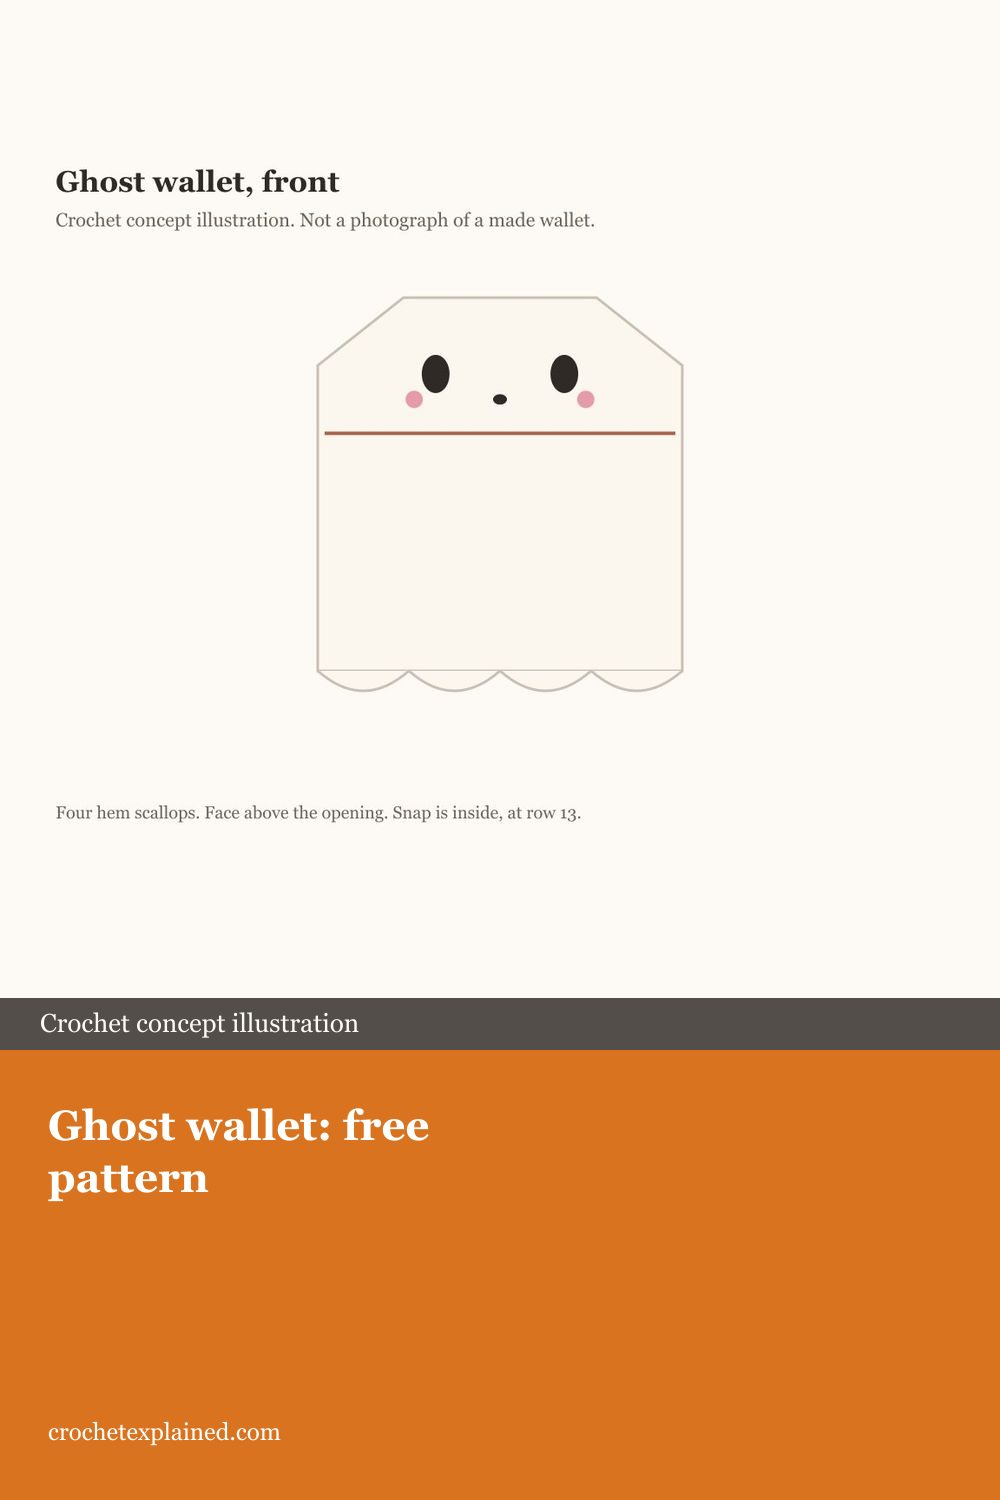
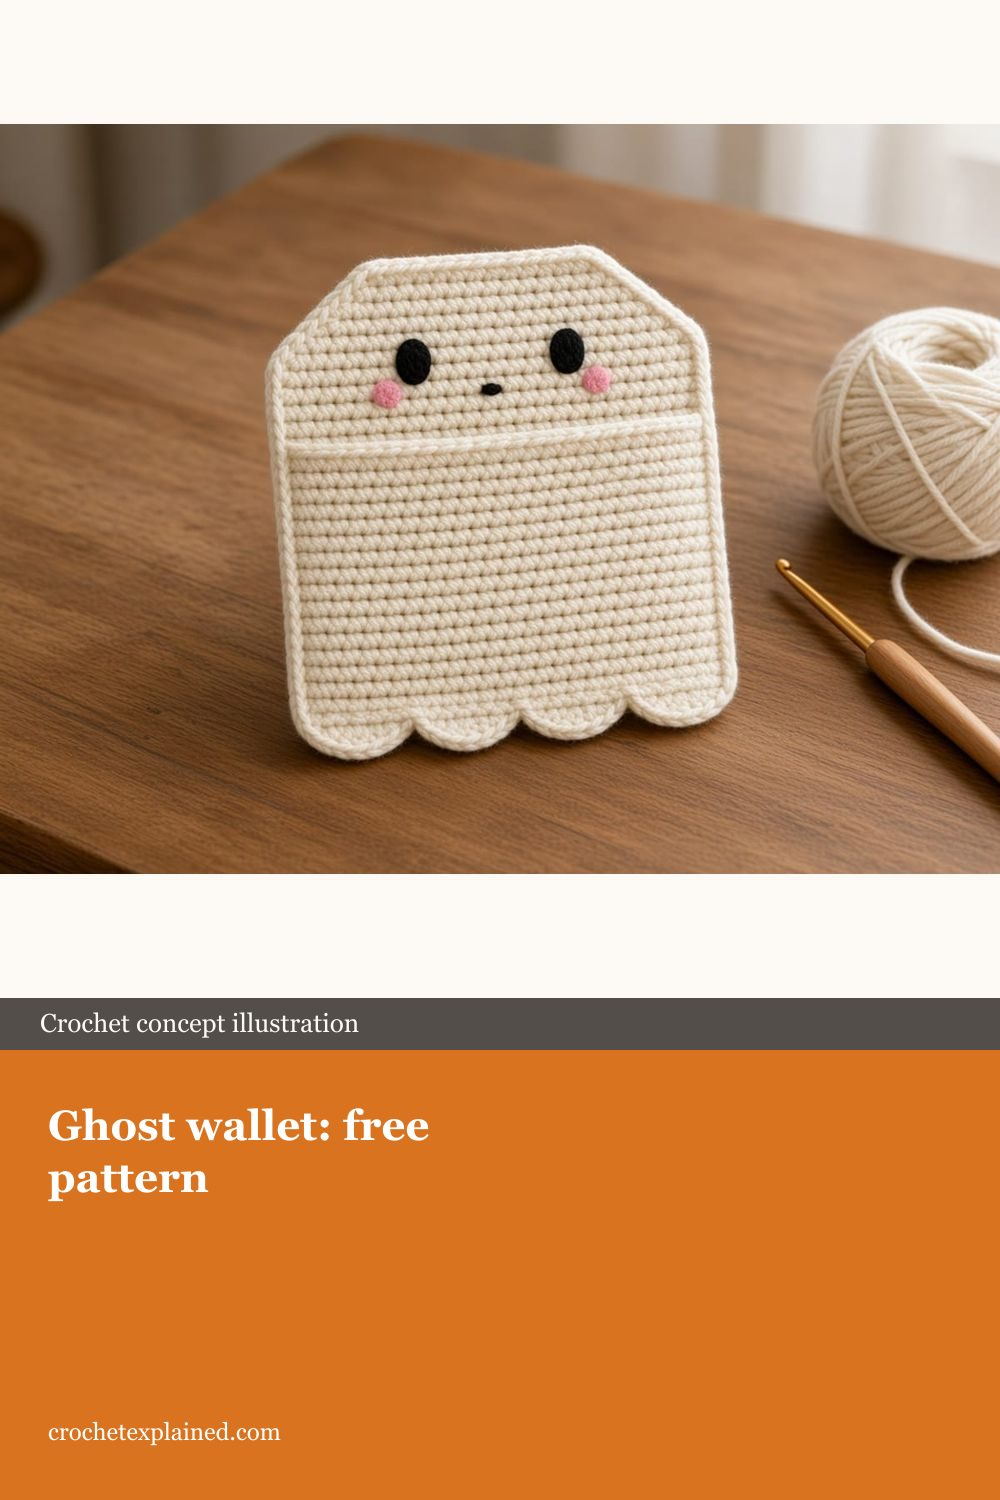
Use illustrated photos for the Halloween wallet cards and articles
The listing miniatures were flat diagrams. Each wallet now leads with a generated illustration of the finished piece, plus step pictures inside the article. Captions still say they are not photographs of made wallets.

diff --git a/src/content/posts/halloween-crochet-wallets.md b/src/content/posts/halloween-crochet-wallets.md
@@ -28,25 +28,25 @@ All five are written for worsted yarn and a US G/6 (4.0 mm) hook. A plain single
 
 **[Black cat crochet wallet](/black-cat-crochet-wallet/).** Beginner. A seamless pocket worked in rounds around both sides of a chain, a 9-row flap with gold eyes, two triangle ears, and a snap.
 
-![Concept illustration of the closed black cat wallet: two ears on the fold, a narrowed flap, gold eyes, a pink nose, and whiskers](../../assets/articles/black-cat-crochet-wallet-result.jpg "Crochet concept illustration. Not a photograph of a made wallet.")
+![Concept illustration of the closed black cat wallet: two ears on the fold, a narrowed flap, gold eyes, a pink nose, and whiskers](../../assets/articles/black-cat-crochet-wallet-result.jpg "Illustration, not a photograph of a made wallet.")
 
 **[Ghost crochet wallet](/ghost-crochet-wallet/).** Intermediate. Two shaped panels, a soft embroidered face with pink cheeks, and one edging round that joins the layers and scallops the hem. The snap hides inside.
 
-![Concept illustration of the ghost wallet: a stepped head, four hem scallops, and the face above the pocket opening](../../assets/articles/ghost-crochet-wallet-result.jpg "Crochet concept illustration. Not a photograph of a made wallet.")
+![Concept illustration of the ghost wallet: a stepped head, four hem scallops, and the face above the pocket opening](../../assets/articles/ghost-crochet-wallet-result.jpg "Illustration, not a photograph of a made wallet.")
 
 **[Pumpkin crochet wallet](/pumpkin-crochet-wallet/).** Beginner. One sideways piece in back-loop ribs, folded and seamed, with a jack-o'-lantern face, a rolled stem, and a green leaf tab that snaps shut.
 
-![Concept illustration of the pumpkin wallet: vertical ribs, the stem behind the back rim, and a leaf tab over the front](../../assets/articles/pumpkin-crochet-wallet-result.jpg "Crochet concept illustration. Not a photograph of a made wallet.")
+![Concept illustration of the pumpkin wallet: vertical ribs, the stem behind the back rim, and a leaf tab over the front](../../assets/articles/pumpkin-crochet-wallet-result.jpg "Illustration, not a photograph of a made wallet.")
 
 **[Witch hat crochet wallet](/witch-hat-crochet-wallet/).** Intermediate. One purple rectangle with a worked buttonhole, an inner divider for two pockets, and a black and orange hat appliqué.
 
-![Concept illustration of the witch hat wallet: a small hat on the flap, with the button showing through the buttonhole](../../assets/articles/witch-hat-crochet-wallet-result.jpg "Crochet concept illustration. Not a photograph of a made wallet.")
+![Concept illustration of the witch hat wallet: a small hat on the flap, with the button showing through the buttonhole](../../assets/articles/witch-hat-crochet-wallet-result.jpg "Illustration, not a photograph of a made wallet.")
 
 **[Spiderweb crochet wallet](/spiderweb-crochet-wallet/).** Intermediate. A black wallet with a pointed flap, a backstitched white web, a tiny purple spider, and a button loop.
 
-![Concept illustration of the spiderweb wallet: five spokes, a spider on the right-hand spoke, and a loop at the point](../../assets/articles/spiderweb-crochet-wallet-result.jpg "Crochet concept illustration. Not a photograph of a made wallet.")
+![Concept illustration of the spiderweb wallet: five spokes, a spider on the right-hand spoke, and a loop at the point](../../assets/articles/spiderweb-crochet-wallet-result.jpg "Illustration, not a photograph of a made wallet.")
 
-All five pictures are crochet concept illustrations drawn from the pattern counts. None is a photograph of a wallet made from these patterns.
+All five pictures are illustrations of the intended look. None is a photograph of a wallet made from these patterns. The diagrams further down are the counted construction.
 
 ## How they compare
 

diff --git a/src/content/posts/ghost-crochet-wallet.md b/src/content/posts/ghost-crochet-wallet.md
@@ -20,7 +20,7 @@ A ghost wallet only works if it still looks like a ghost with cards in it. This 
 
 It is one of five patterns in the [Halloween crochet wallet collection](/halloween-crochet-wallets/). If you want a smaller, simpler ghost with a fold-over flap, the [ghost mini wallet](/ghost-crochet-mini-wallet/) is a different design worth a look. This one teaches shaping with decreases and joining two layers with an edging.
 
-![Concept illustration of the ghost wallet: a stepped head, four hem scallops, and the face above the pocket opening](../../assets/articles/ghost-crochet-wallet-result.jpg "Crochet concept illustration drawn from the pattern counts. Not a photograph of a made wallet.")
+![A cream crochet ghost wallet with the face above a pocket and four scallops on the hem](../../assets/articles/ghost-crochet-wallet-result.jpg "Illustration, not a photograph of a made wallet.")
 
 ## What is checked, and what is not
 
@@ -76,6 +76,8 @@ Each panel is 17 stitches, 4.25 inches wide. The side edging takes a little from
 <figcaption>Diagram. Both panels start the same way. The back keeps going and rounds off.</figcaption>
 </figure>
 
+![The two cream panels before joining: a taller back with a stepped top, and a shorter front](../../assets/articles/ghost-crochet-wallet-panels.jpg "Illustration, not a photograph of a made wallet.")
+
 **Back panel**, cream:
 
 **Row 1:** Ch 18. Sc in the 2nd ch from the hook and in each ch across. (17)
@@ -109,6 +111,8 @@ Lay the front on the back with the hems matched. The front should end with 8 row
 <figcaption>Diagram. Stitch k mirrors stitch 18 minus k, so the face stays centered.</figcaption>
 </figure>
 
+![Black oval eyes, a small mouth, and pink cheeks on cream crochet, above the pocket opening](../../assets/articles/ghost-crochet-wallet-face.jpg "Illustration, not a photograph of a made wallet.")
+
 Pick the side of the back panel you like better. That is its right side, and it faces forward, above the front panel. Count stitches from the right-hand edge with row 1 at the bottom.
 
 1. **Eyes.** With black, a vertical oval over rows 17 and 18 at stitch 6: three or four close straight stitches, side by side. Repeat at stitch 12.
@@ -136,6 +140,8 @@ Sew with doubled thread, four or five passes per hole, catching only the panel y
 <img src="/diagrams/ghost-wallet-join.svg" alt="Diagram. The front panel on the back panel with one edging round. Along the hem through both layers: slip stitch in stitch 1, then skip 1, 5 half double crochet in the next, skip 1, slip stitch in the next, four times. Up the first side 14 single crochet through both layers, 4 through the back only, 5 along the head slope. 9 across the top. 23 down the other side." width="640" height="420" loading="lazy" decoding="async" />
 <figcaption>Diagram. One round joins the panels, scallops the hem, and leaves the front's top edge open.</figcaption>
 </figure>
+
+![The hem edging, four scallops across the bottom](../../assets/articles/ghost-crochet-wallet-hem.jpg "Illustration, not a photograph of a made wallet. The pattern's repeat makes four scallops.")
 
 Place the front panel on the right side of the back panel, wrong side of the front against the face side of the back, hems and side edges matched. Clip the sides with markers. Join cream yarn at a bottom corner in stitch 1 of the hem, working through both layers.
 

diff --git a/src/content/posts/black-cat-crochet-wallet.md b/src/content/posts/black-cat-crochet-wallet.md
@@ -20,7 +20,7 @@ A black cat is the Halloween wallet people recognize from across the room, and t
 
 This page is one of five patterns in the [Halloween crochet wallet collection](/halloween-crochet-wallets/). The skill it teaches is working into both sides of a foundation chain, which is also how many pencil cases and amigurumi bodies start.
 
-![Concept illustration of the closed black cat wallet: ears on the fold, a flap that narrows at the last two rows, gold eyes, a pink nose, and three whiskers on each side](../../assets/articles/black-cat-crochet-wallet-result.jpg "Crochet concept illustration drawn from the pattern counts. Not a photograph of a made wallet.")
+![A black crochet wallet with two ears, gold eyes, a pink nose, and white whiskers](../../assets/articles/black-cat-crochet-wallet-result.jpg "Illustration, not a photograph of a made wallet.")
 
 ## What is checked, and what is not
 
@@ -83,6 +83,8 @@ If 16 stitches measure less than 3.75 inches, the card will be tight. Go up a ho
 <figcaption>Diagram. Both sides of the chain make round 1. The chain becomes the bottom fold.</figcaption>
 </figure>
 
+![The black pocket with a card started inside, before the ears and face](../../assets/articles/black-cat-crochet-wallet-pocket.jpg "Illustration, not a photograph of a made wallet.")
+
 With black:
 
 **Rnd 1:** Ch 17. Sc in the 2nd ch from the hook and in each ch across. (16 sc) Rotate the work. Sc in the free loop on the other side of each ch across, starting in the same ch as the last stitch. (16 sc) Join with a sl st to the first sc. (32)
@@ -123,6 +125,8 @@ Fold the flap over the opening. It should cover the front from the rim down abou
 <figcaption>Diagram. 1 + 5 + 4 + 5 + 1 = 16, so the ears sit symmetrically.</figcaption>
 </figure>
 
+![Two small black ears on the top fold of the wallet](../../assets/articles/black-cat-crochet-wallet-ears.jpg "Illustration, not a photograph of a made wallet.")
+
 Make 2, in black, leaving a 10 inch tail at the start of each.
 
 **Row 1:** Ch 6. Sc in the 2nd ch from the hook and in each ch across. Turn. (5)
@@ -139,6 +143,8 @@ Fasten off. Each ear is about 1.25 inches across the base and 0.6 inch tall.
 <img src="/diagrams/cat-wallet-face.svg" alt="Diagram. The closed flap as a grid 16 stitches across and 9 rows tall, row 1 at the top fold. Gold eyes on rows 3 and 4 over stitches 4 to 5 and 12 to 13, with black vertical pupils. A pink nose on rows 5 and 6 over stitches 8 and 9. Three white whiskers on each side across rows 5 to 7. The snap is under row 8 at the center." width="640" height="420" loading="lazy" decoding="async" />
 <figcaption>Diagram. Count stitches and rows on the flap before the first stitch of embroidery.</figcaption>
 </figure>
+
+![Close view of the gold eyes, pink nose, and three whiskers on each side](../../assets/articles/black-cat-crochet-wallet-face.jpg "Illustration, not a photograph of a made wallet.")
 
 Close the flap first. Row 1 is now at the top fold. If you embroider with the flap standing up, the face ends up upside down.
 

diff --git a/src/content/posts/pumpkin-crochet-wallet.md b/src/content/posts/pumpkin-crochet-wallet.md
@@ -20,7 +20,7 @@ Most crochet pumpkins are round, which is a poor shape for cards. This one is a 
 
 It is one of five patterns in the [Halloween crochet wallet collection](/halloween-crochet-wallets/), and the most forgiving one for a first project.
 
-![Concept illustration of the pumpkin wallet: vertical ribs, the stem standing behind the back rim, and a leaf tab folded over the front](../../assets/articles/pumpkin-crochet-wallet-result.jpg "Crochet concept illustration drawn from the pattern counts. Not a photograph of a made wallet.")
+![An orange ribbed crochet wallet with a jack-o'-lantern face, a green leaf tab, and a stem at the top](../../assets/articles/pumpkin-crochet-wallet-result.jpg "Illustration, not a photograph of a made wallet. In the pattern the stem stands on the back rim, behind the tab.")
 
 ## What is checked, and what is not
 
@@ -75,6 +75,8 @@ The piece is worked sideways. The 20 stitches in each row set the height before 
 <img src="/diagrams/pumpkin-wallet-ribbing.svg" alt="Diagram. A close-up of the top of a single crochet, with the hook in the back loop and the front loop left as a ridge. Three swatch options: back loop every row for 11 ribs over 22 rows, both loops for a flat face, or two shades of orange changing every 2 rows." width="640" height="420" loading="lazy" decoding="async" />
 <figcaption>Diagram. One raised rib for every two rows, on one face of the fabric.</figcaption>
 </figure>
+
+![The orange piece laid flat, with the ribs running vertically, before the face or the fold](../../assets/articles/pumpkin-crochet-wallet-ribs.jpg "Illustration, not a photograph of a made wallet.")
 
 With orange:
 
@@ -137,6 +139,8 @@ Keep rows 10 to 13 on stitches 1 to 5 clear; the leaf tab covers that spot. Neve
 <img src="/diagrams/pumpkin-wallet-stem-tab.svg" alt="Diagram. The stem, a green strip 6 single crochet by 3 rows rolled into a small cylinder. The leaf tab, 3 stitches wide for 6 rows with a point on row 7. A side view of the tab sewn inside the back rim, rising over both rims and down the front, with a snap under the tip and the stem standing on the back rim." width="640" height="420" loading="lazy" decoding="async" />
 <figcaption>Diagram. The tab is the closure. The stem only decorates.</figcaption>
 </figure>
+
+![The closed orange wallet. The leaf tab folds over the front; sew the stem on the back rim, behind that tab](../../assets/articles/pumpkin-crochet-wallet-result.jpg "Illustration, not a photograph of a made wallet. The stem in the picture sits on the tab. The pattern puts it on the back rim.")
 
 **Stem**, green: Ch 7. Sc in the 2nd ch from the hook and across. (6) Rows 2–3: ch 1, turn, sc in each st. (6) Fasten off with a 10 inch tail. Roll from one short end into a cylinder about 0.6 inch tall and sew the edge down.
 

diff --git a/src/content/posts/witch-hat-crochet-wallet.md b/src/content/posts/witch-hat-crochet-wallet.md
@@ -20,7 +20,7 @@ A wallet with one pocket fills up fast, and the card you want is always at the b
 
 It is one of five patterns in the [Halloween crochet wallet collection](/halloween-crochet-wallets/). The new skills here are a worked buttonhole and seaming through three layers.
 
-![Concept illustration of the witch hat wallet: a hat about 1.25 inches wide at the band, with the button showing through the buttonhole under the brim](../../assets/articles/witch-hat-crochet-wallet-result.jpg "Crochet concept illustration drawn from the pattern counts. Not a photograph of a made wallet.")
+![A purple crochet wallet with a small black witch hat, an orange band, and a button under the brim](../../assets/articles/witch-hat-crochet-wallet-result.jpg "Illustration, not a photograph of a made wallet.")
 
 ## What is checked, and what is not
 
@@ -75,6 +75,8 @@ Seventeen stitches make 4.25 inches; after the side seams, each pocket is about 
 <figcaption>Diagram. Three zones in one piece. The chain edge becomes the front rim.</figcaption>
 </figure>
 
+![The purple rectangle before it is folded, with the buttonhole worked into the row](../../assets/articles/witch-hat-crochet-wallet-rectangle.jpg "Illustration, not a photograph of a made wallet. In the pattern the hole is centered.")
+
 With purple:
 
 **Row 1:** Ch 18. Sc in the 2nd ch from the hook and in each ch across. (17)
@@ -112,6 +114,8 @@ Fasten off. The divider is 11 rows, about 2.2 inches, one row shorter than the f
 <img src="/diagrams/witch-hat-applique.svg" alt="Diagram. The cone in 5 rows: row 1 in orange, 5 stitches, then black, 5, 3, 3, and 1. A separate black brim strip of 8 stitches. On the closed flap, the brim lies on row 30 centered on stitch 9, the tip reaches row 25 at the top fold, and the buttonhole on row 31 sits just below the brim." width="640" height="420" loading="lazy" decoding="async" />
 <figcaption>Diagram. Hat band in orange, the rest in black. Keep row 31 clear.</figcaption>
 </figure>
+
+![The small black hat with an orange band, beside a ball of purple yarn](../../assets/articles/witch-hat-crochet-wallet-hat.jpg "Illustration, not a photograph of a made wallet.")
 
 **Cone:**
 

diff --git a/src/content/posts/spiderweb-crochet-wallet.md b/src/content/posts/spiderweb-crochet-wallet.md
@@ -20,7 +20,7 @@ A spiderweb on a crochet wallet usually means a lot of fiddly white color change
 
 It is one of five patterns in the [Halloween crochet wallet collection](/halloween-crochet-wallets/), and the one that teaches surface embroidery and a button loop.
 
-![Concept illustration of the spiderweb wallet: five spokes, three rings, a spider on the stitch-11 spoke, and a loop at the point](../../assets/articles/spiderweb-crochet-wallet-result.jpg "Crochet concept illustration drawn from the pattern counts. Not a photograph of a made wallet.")
+![A black crochet wallet with a pointed flap, a white web, a purple spider, and a loop over a button](../../assets/articles/spiderweb-crochet-wallet-result.jpg "Illustration, not a photograph of a made wallet. The pattern's web has five spokes.")
 
 ## What is checked, and what is not
 
@@ -78,6 +78,8 @@ Seventeen stitches are 4.25 inches; after the side seams, the pocket is about 3.
 <figcaption>Diagram. The flap loses one stitch at each end of every row until it comes to a point.</figcaption>
 </figure>
 
+![The black pointed flap before any embroidery](../../assets/articles/spiderweb-crochet-wallet-flap.jpg "Illustration, not a photograph of a made wallet.")
+
 With black:
 
 **Row 1:** Ch 18. Sc in the 2nd ch from the hook and in each ch across. (17)
@@ -131,6 +133,8 @@ Work through the flap only. If a line comes out crooked, unpick it; backstitch c
 <img src="/diagrams/spider-applique.svg" alt="Diagram. Left, the abdomen: magic ring of 6, round 2 increases to 12, round 3 even, round 4 decreases to 6. The head: magic ring of 6 and one even round. Right, the head sewn to the abdomen with eight two-segment legs, four per side, bent at the knee." width="640" height="420" loading="lazy" decoding="async" />
 <figcaption>Diagram. Two tiny balls and eight stitched legs.</figcaption>
 </figure>
+
+![The purple spider on the right side of the web, with the loop and button at the point](../../assets/articles/spiderweb-crochet-wallet-spider.jpg "Illustration, not a photograph of a made wallet. The pattern uses five spokes.")
 
 With purple, on the smaller hook if you have one:
 
